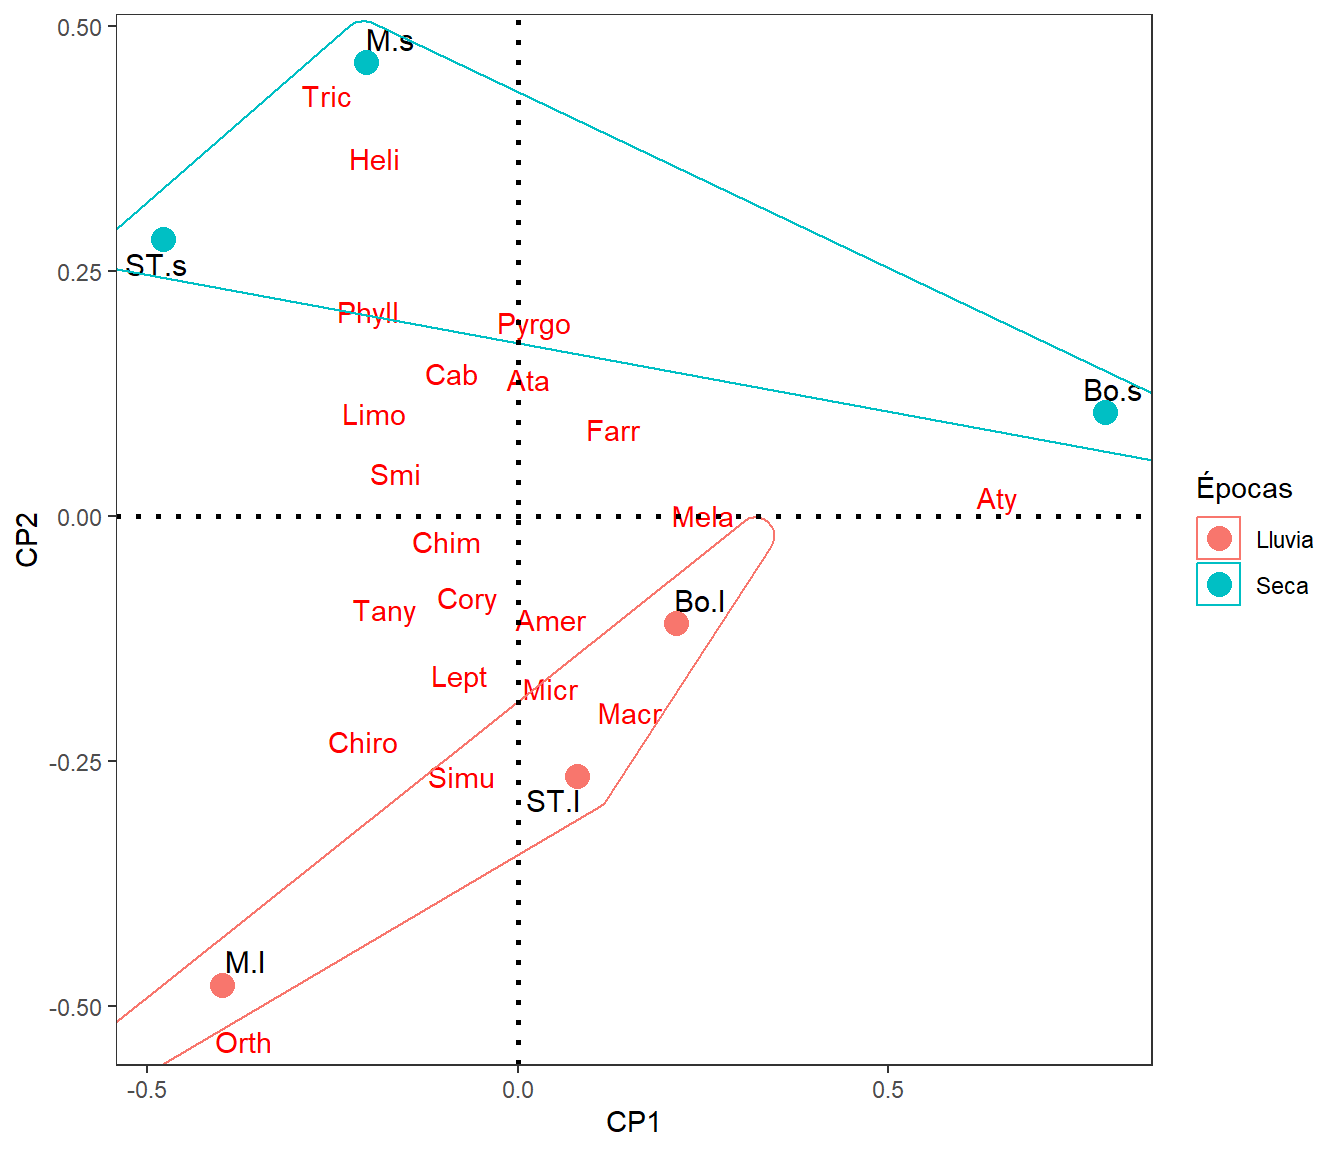
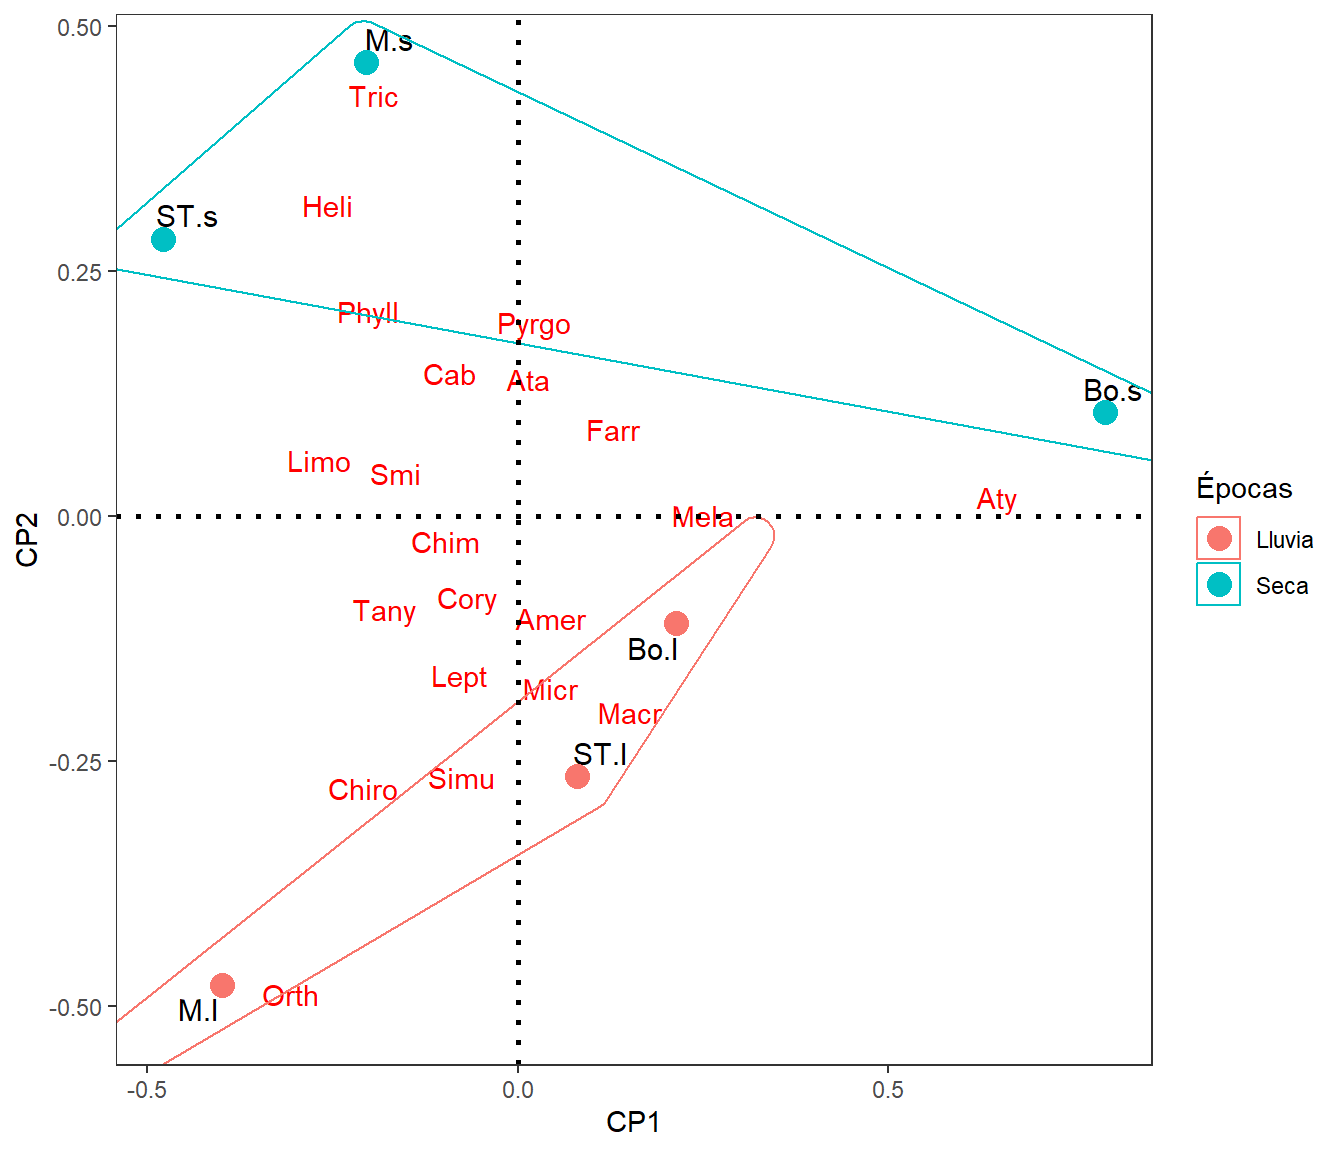
summary

diff --git a/9.Manual_mv_26/html/Taller4.2.pca.tayrona.html b/9.Manual_mv_26/html/Taller4.2.pca.tayrona.html
@@ -280,7 +280,7 @@ pre > code.sourceCode > span > a:first-child::before { text-decoration: underlin
 <h3 class="anchored" data-anchor-id="diapositivas-en-vivo---slides.com">Diapositivas en vivo - Slides.com</h3>
 <p><img src="https://javier-2712.github.io/Manuales/9.Manual_mv_26/html/Figuras/slides.com.png" class="img-fluid" width="110"></p>
 <ul>
-<li>📰 <a href="https://slides.com/d/ffasfUk/live">Diapositivas del Taller 4.2_pca_PNNT</a></li>
+<li>📰 <a href="https://slides.com/d/aaZ3Oko/live">Diapositivas del Taller 4.2_pca_PNNT</a></li>
 </ul>
 <hr>
 </section>
